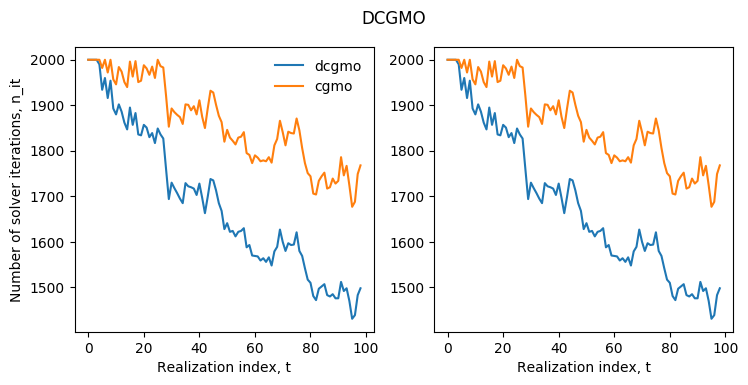
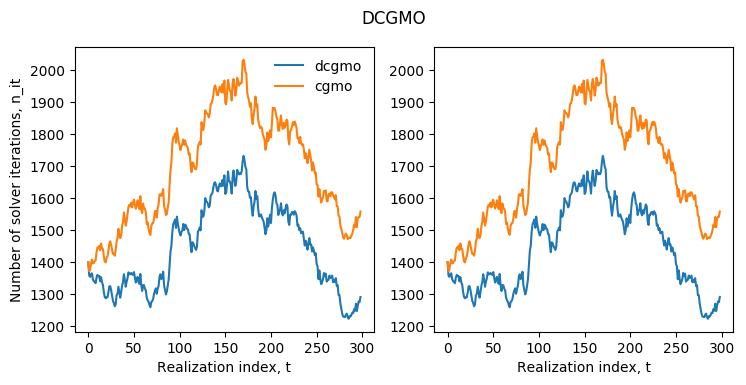
first-commiy

diff --git a/solvers.py b/solvers.py
@@ -13,7 +13,7 @@ class solver:
       Public methods:
         set_precond, solve.
   """
-  def __init__(self, n, solver_type, eps=1e-7, itmax=2000, W=None, ell=0):
+  def __init__(self, n, solver_type, eps=1e-7, itmax=4000, W=None, ell=0):
     self.n = n
     self.type = solver_type
     self.eps = eps
@@ -31,6 +31,34 @@ class solver:
         self.kdim = 0
       self.AW = None
       self.WtAW = None
+
+  def solve(self, x0, x_sol=None):
+    self.x0 = x0
+    self.x = None
+    if (type(x_sol) == type(None)):
+      Error = False
+    else:
+      self.x_sol = x_sol
+      self.error_Anorm = None
+      Error = True
+    if (self.type == "cg"):
+      self.__cg(Error=Error)
+    elif (self.type == "pcg"):
+      self.__pcg(Error=Error)
+    elif (self.type == "dcg"):
+      if (type(self.W) == type(None)):
+        self.__cg(Error=Error)
+      else:
+        r0 = self.b-self.A.dot(x0)
+        self.x0 += self.W.dot(self.__apply_invWtAW(self.W.T.dot(r0)))
+        self.__dcg(Error=Error)
+    elif (self.type == "dpcg"):
+      if (type(self.W) == type(None)):
+        self.__pcg(Error=Error)
+      else:
+        r0 = self.b-self.A.dot(x0)
+        self.x0 += self.W.dot(self.__apply_invWtAW(self.W.T.dot(r0)))
+        self.__dpcg(Error=Error)
 
   def set_precond(self, Mat=None, precond_id=0, nb=2, application_type=1):
     self.precond_id = precond_id
@@ -73,47 +101,29 @@ class solver:
       else:
         print('Warning: Invalid application_type.')
 
-  def solve(self, A, b, x0, ell=0, x_sol=None):
+  def presolve(self, A, b, ell=0):
     self.A = A
     self.b = b
     self.bnorm = np.linalg.norm(self.b)
-    self.x0 = x0
-    self.x = None
     self.iterated_res_norm = None
     self.it = 0
     self.ell = int(ell)
     if (self.ell > 0):
       self.P = np.zeros((self.n,self.ell))
-    if (type(x_sol) == type(None)):
-      Error = False
-    else:
-      self.x_sol = x_sol
-      self.error_Anorm = None
-      Error = True
-    if (self.type == "cg"):
-      self.__cg(Error=Error)
-    elif (self.type == "pcg"):
-      self.__pcg(Error=Error)
-    elif (self.type == "dcg"):
-      if (type(self.W) == type(None)):
-        self.__cg(Error=Error)
-      else:
+    if (self.type == "dcg"):
+      if (type(self.W) != type(None)):
         self.AW = self.A.dot(self.W)
         self.WtAW = self.W.T.dot(self.AW)
-        # HERE, compute factorization of WtAW
-        r0 = self.b-self.A.dot(x0)
-        # HERE, compute new initial iterate, orthogonal to deflation subspace
-        self.x0 += self.W.dot(scipy.linalg.solve(self.WtAW, self.W.T.dot(r0)))
-
-
-        self.__dcg(Error=Error)
+        self.__set_factorization_WtAW()
     elif (self.type == "dpcg"):
-      if (type(self.W) == type(None)):
-        self.__pcg(Error=Error)
-      else:
+      if (type(self.W) != type(None)):
         self.AW = self.A.dot(self.W)
         self.WtAW = self.W.T.dot(self.AW)
-        self.__dpcg(Error=Error)
+        self.__set_factorization_WtAW()
+
+  def __set_factorization_WtAW(self):
+    self.WtAW_chol = scipy.linalg.cho_factor(self.WtAW)
+    # Application: scipy.linalg.cho_solve(self.WtAW_chol, x)
 
   def __apply_invM(self, x):
     if (self.precond_id == 2):
@@ -133,10 +143,8 @@ class solver:
         return self.inv_M.dot(x)
 
   def __apply_invWtAW(self, x):
-    #
-    # Precompute a factorization in solve()
-    #
-    return scipy.linalg.solve(self.WtAW, x)
+    return scipy.linalg.cho_solve(self.WtAW_chol, x)
+    #return scipy.linalg.solve(self.WtAW, x)
 
   def __cg(self, Error=False):
     self.it = 0

diff --git a/example02_solver.py b/example02_solver.py
@@ -21,7 +21,8 @@ fig, ax = pl.subplots(2, 3, figsize=(13,8.))
 for i_smp in range(nsmp):
   mc.draw_realization()
   mc.do_assembly()
-  pcg.solve(A=mc.A, b=mc.b, x0=np.zeros(mc.n))
+  pcg.presolve(A=mc.A, b=mc.b)
+  pcg.solve(x0=np.zeros(mc.n))
   ax[0,0].plot(mc.get_kappa(), lw=.1)
   ax[0,1].plot(pcg.x, lw=.2)
   ax[0,2].semilogy(pcg.iterated_res_norm/pcg.bnorm, lw=.3)  
@@ -34,12 +35,12 @@ while (mcmc.cnt_accepted_proposals < nsmp):
   mcmc.draw_realization()
   mcmc.do_assembly()
   if (mcmc.proposal_accepted):
-    pcg.solve(A=mcmc.A, b=mcmc.b, x0=np.zeros(mcmc.n))
+    pcg.presolve(A=mcmc.A, b=mcmc.b)
+    pcg.solve(x0=np.zeros(mcmc.n))
     ax[1,0].plot(mcmc.get_kappa(), lw=.1)
     ax[1,1].plot(pcg.x, lw=.2)
     ax[1,2].semilogy(pcg.iterated_res_norm/pcg.bnorm, lw=.3)  
 ax[1,0].set_xlabel("x"); ax[1,1].set_xlabel("x"); ax[1,2].set_xlabel("Solver iteration, j")
 ax[1,0].set_ylabel("MCMC sampler")
-
 pl.show()
 #pl.savefig("example02_solver.png", bbox_inches='tight')

diff --git a/example04_recycler.py b/example04_recycler.py
@@ -5,11 +5,11 @@ import pylab as pl
 import numpy as np
 
 nEl = 1000
-nsmp = 100
+nsmp = 300
 sig2, L = .357, 0.05
 model = "Exp"
 
-mcmc = sampler(nEl=nEl, smp_type="mcmc", model=model, sig2=sig2, L=L, seed=123)
+mcmc = sampler(nEl=nEl, smp_type="mcmc", model=model, sig2=sig2, L=L)
 mcmc.compute_KL()
 
 mcmc.draw_realization()
@@ -34,7 +34,8 @@ while (mcmc.cnt_accepted_proposals < nsmp):
     dcgmo.solve()
     dcgmo_it += [dcg.it]
 
-    cg.solve(A=mcmc.A, b=mcmc.b, x0=np.zeros(mcmc.n))
+    cg.presolve(A=mcmc.A, b=mcmc.b)
+    cg.solve(x0=np.zeros(mcmc.n))
     cgmo_it += [cg.it]
 
     print("%d/%d" %(mcmc.cnt_accepted_proposals, nsmp))

diff --git a/recyclers.py b/recyclers.py
@@ -193,9 +193,10 @@ class recycler:
         elif (self.sampler.type == "mcmc") & (self.sampler.cnt_accepted_proposals < self.t_end_def):
           self.update_W()
     
-    self.solver.A = self.sampler.A
+    self.solver.presolve(A=self.sampler.A, b=self.sampler.b, ell=self.solver.ell)
 
-  def solve(self):
-    x0 = np.zeros(self.sampler.n)
-    self.solver.solve(self.sampler.A, self.sampler.b, x0, ell=self.solver.ell)
+  def solve(self, x0=None):
+    if (type(x0) == type(None)):
+      x0 = np.zeros(self.sampler.n)
+    self.solver.solve(x0=x0)
     # self.solver.ell was updated here

diff --git a/README.tex.md b/README.tex.md
@@ -20,9 +20,9 @@ List of files: _samplers.py_, _solvers.py_, _recyclers.py_, _post_recyclers.py_
 
 - _samplers.py_ : 
 
-  A `sampler` assembles sampled operators in a sequence $\{\mathbf{A}(\theta_t)\}_{t=1}^M$ for the stochastic system $\mathbf{A}(\theta)\mathbf{u}(\theta)=\mathbf{b}$ of a P0-FE discretization of the SDE $\partial_x[\kappa(x;\theta)\partial_xu(x;\theta)]=-f(x)$ for all $x\in(x_a, x_b)$ and $u(x_a)=0$. The stationary lognormal coefficient field $\kappa(x;\theta)$ is represented by a truncated Karhunen-Loève (KL) expansion later sampled either by Monte Carlo (MC) or by Markov chain Monte Carlo (MCMC).
-
   Signature : `sampler`(`nEL`=`500`,`smp_type`=`"mc"`, `model`=`"SExp"`, `sig2`=`1`, `mu`=`0`, `L`=`0.1`, `vsig2`=`None`,`delta2`=`1e-3`, `seed`=`123456789`, `verb`=`1`, `xa`=`0`, `xb`=`1`, `u_xb`=`None`, `du_xb`=`0`)
+
+  Assembles sampled operators in a sequence $\{\mathbf{A}(\theta_t)\}_{t=1}^M$ for the stochastic system $\mathbf{A}(\theta)\mathbf{u}(\theta)=\mathbf{b}$ of a P0-FE discretization of the SDE $\partial_x[\kappa(x;\theta)\partial_xu(x;\theta)]=-f(x)$ for all $x\in(x_a, x_b)$ and $u(x_a)=0$. The stationary lognormal coefficient field $\kappa(x;\theta)$ is represented by a truncated Karhunen-Loève (KL) expansion later sampled either by Monte Carlo (MC) or by Markov chain Monte Carlo (MCMC).
 
   - `nEl` (`int`, `nEl`>`0`) : Number of elements.
 
@@ -62,9 +62,9 @@ List of files: _samplers.py_, _solvers.py_, _recyclers.py_, _post_recyclers.py_
 
 - _solvers.py_ :
 
-  A `solver` solves a linear system iteratively and potentially recycles some information about a Krylov subspace.
-
   Signature : `solver`( `n`, `solver_type`, `eps`=`1e-7`, `itmax`=`2000`, `W`=`None`, `ell`=`0`)
+
+  Solves a linear system iteratively and potentially recycles some information about a Krylov subspace.
 
   - `n` (`int`, `n`>`1`) : System size.
   - `solver_type` (`string`, {`"cg"`, `"pcg"`, `"dcg"`, `"dpcg"`}) : Type of iterative solver.
@@ -75,11 +75,11 @@ List of files: _samplers.py_, _solvers.py_, _recyclers.py_, _post_recyclers.py_
   - `eps` (`float`, `0`<`eps`<`1`) : Tolerance used for stopping criterion. Iterations are stopped if the norm `iterated_res_norm` of the iterated residual `r` is such that `iterated_res_norm`<`eps`*`bnorm` where `bnorm` denotes $\|b\|$.
   - `itmax` (`int`, `itmax`>`1`) : Maximum number of iterations.
   - `W` (`ndarray`, `W.shape`=`(n,k)`, `k`<`n`) : Basis of deflation subspace used for `"dcg"` and `"dpcg"`.
-  - `ell` (`int`, `ell`>`0`) : Attempted dimension of the recycled Krylov subspace.
+  - `ell` (`int`, `ell`>`0`) : Attempted dimension of the Krylov subspace to recycle.
 
   Public parameters : *, *, *.
 
-  Public methods : `set_precond`, `solve`.
+  Public methods : `set_precond`, `presolve`, `solve`.
 
   Signature : `set_precond`(`self`, `Mat`, `precond_id`, `nb`=`2`, `application_type`=`1`)
 
@@ -109,27 +109,30 @@ List of files: _samplers.py_, _solvers.py_, _recyclers.py_, _post_recyclers.py_
 
     `2` : The array of the inverse preconditioner is explicitly computed when `set_precond` is called. The computed inverse is later applied as a matrix-vector product at each application.
 
-  Signature : `solve`(`self`, `A`, `b`, `x0`, `ell`=`0,` `x_sol`=`None`)
+  Signature : `presolve`(`self`, `A`, `b`, `ell`=`0`)
+
+  If `self.type`={`"dcg"`, `"dpcg"`} : Computes $AW$ and computes/factorizes $W^TAW$.
 
   - `A` ({`ndarray`, `sparse`}, `A.shape`=`(n, n)`) : Sampled operator of linear system to solve.
   - `b` (`ndarray`, `b.shape`=`(n,)`) : Right hand side.
+  - `ell` (`int`, `ell`>=`0`) : Dimension of Krylov subspace to recycle.
+
+  Signature : `solve`(`self`, `x0`, `x_sol`=`None`)
+
   - `x0` (`ndarray`, `x0.shape`=`(n,)`) : Initial iterate.
-  - `ell` (`int`, `ell`>=`0`) : Dimension of recycled Krylov subspace.
   - `x_sol` (`ndarray`, `x_sol.shape`=`(n,)`) : Exact solution used to compute A-norm errors.
 
 - _recyclers.py_ : 
 
-  A `recycler` interfaces a `sampler` with a `solver` in order to solve a sequence of linear systems $\mathbf{A}(\theta_t)\mathbf{u}(\theta_t)=\mathbf{b}$  associated with a sequence of sampled operators $\{\mathbf{A}(\theta_t)\}_{t=1}^M$. The recyclers implemented make use of preconditioners and/or deflation of Krylov subspaces. 
+  Signature : `recycler`(`sampler`, `solver`, `recycler_type`, `dt`=`0`, `t_end_def`=`0`, `kl`=`5`, `kl_strategy`=`0`, `dp_seq`=`"pd"`, `which_op`=`"previous"`, `approx`=`"HR"`)
+
+  Interfaces a `sampler` with a `solver` in order to solve a sequence of linear systems $\mathbf{A}(\theta_t)\mathbf{u}(\theta_t)=\mathbf{b}$  associated with a sequence of sampled operators $\{\mathbf{A}(\theta_t)\}_{t=1}^M$. The recyclers implemented make use of preconditioners and/or deflation of Krylov subspaces. 
 
   The available sequences of preconditioners $\{\mathbf{M}(\theta_t)\}_{t=1}^M$ are either: (1) constant, i.e.  $\mathbf{M}(\theta_t)=\mathbf{M}(\hat{\mathbf{A}})$ for all $t$, where $\hat{\mathbf{A}}$ denotes the median operator, or (2) realization-dependent and redefined periodically throughout the sampled sequence, i.e. $\mathbf{M}(\theta_t):=\mathbf{M}(\theta_{t_j})$ for all $t_j\leq t<t_{j+1}$ with $t_j:=1+j\Delta t$ and $0\leq j<M/\Delta t$ for some period $\Delta t$.  All the preconditioners available are SPD so that for each $\mathbf{M}(\theta_t)$, there exists $\mathbf{L}(\theta_t)$ such that $\mathbf{M}(\theta_t)=\mathbf{L}(\theta_{t})\mathbf{L}(\theta_{t})^{T}$.
 
   Deflation is performed either: (1) throughout the sequence, or (2) for all $t\leq t_{stop}$ for some $t_{stop}\leq M$. The Krylov subspace $\mathcal{K}^{(t)}$ associated with the iterative resolution of $\mathbf{A}(\theta_t)\mathbf{u}(\theta_t)=\mathbf{b}$  is deflated by a subspace $\mathcal{W}(\theta_t):=\mathcal{R}(\mathbf{W}(\theta_t))$ spanned by $\mathbf{W}(\theta_t):=[\mathbf{w}_1(\theta_t),\dots,\mathbf{w}_k(\theta_t)]$. $\{\mathbf{w}_k(\theta_t)\}_{j=1}^k$ are approximate eigenvectors of either $\mathbf{A}(\theta_{t-1})$, $\mathbf{A}(\theta_t)$, $\mathbf{M}^{-1}(\theta_{t-1})\mathbf{A}(\theta_{t-1})$ or $\mathbf{M}^{-1}(\theta_{t})\mathbf{A}(\theta_{t})$ depending on the deflation strategy adopted and whether a preconditioner is used or not.
 
   The approximated eigenvectors $\mathbf{w}_1(\theta_t),\dots,\mathbf{w}_k(\theta_t)$ are obtained by (1) Harmonic Ritz, and/or (2) Rayleigh Ritz analysis over an approximation subspace $\mathcal{R}([\mathbf{W}(\theta_{t-1}),\mathbf{P}(\theta_{t-1})])$ spanned by a (recycled) basis $\mathbf{P}(\theta_{t-1})\in\mathbb{R}^{n\times\ell}$ of the Krylov subspace $\mathcal{K}^{(t-1)}_{\ell}\subseteq\mathcal{K}^{(t-1)}$, and the basis $\mathbf{W}(\theta_{t-1})\in\mathbb{R}^{n\times k}$ of a deflation subspace $\mathcal{W}^{(t-1)}\perp\mathcal{K}^{(t-1)}$. The dimensions $k$ and $\ell$ are respectively denoted by `kdim` and `ell` throughout the code.
-
-  A `recycler` recycles.
-
-  Signature : `recycler`(`sampler`, `solver`, `recycler_type`, `dt`=`0`, `t_end_def`=`0`, `kl`=`5`, `kl_strategy`=`0`, `dp_seq`=`"pd"`, `which_op`=`"previous"`, `approx`=`"HR"`)
 
   - `sampler` (`sampler`) 
   - `solver` (`solver`) 
@@ -155,7 +158,23 @@ List of files: _samplers.py_, _solvers.py_, _recyclers.py_, _post_recyclers.py_
 
   Public parameters : *, *, *.
 
-  Public methods : `do_assembly`, `prepare`, `solve`.
+  Public methods :
+
+  Signature `do_assembly`(`self`)
+
+  Assembles current operator $A$ from sampled realization.
+
+  Signature `prepare `(`self`)
+
+  If `self.type`=`"pcgmo"` : Updates preconditioner and computes new factorization.
+
+  If `self.type`={`"dcgmo"`, `"dpcgmo"`} : Updates deflation subspace, computes $AW$, and computes/factorizes $W^TAW$.
+
+  Signature : `solve`(`self`, `x0`)
+
+  Solves the current system in the the sequence.
+
+  - `x0` (`ndarray`, `x0.shape`=`(n,)`) : Initial iterate, later projected onto the orthogonal complement of $\mathcal{R}(W)$ if `self.type`={`"dcgmo"`, `"dpcgmo"`}.
 
 - _post-recyclers.py_ :
 
@@ -241,7 +260,8 @@ fig, ax = pl.subplots(2, 3, figsize=(13,8.))
 for i_smp in range(nsmp):
   mc.draw_realization()
   mc.do_assembly()
-  pcg.solve(A=mc.A, b=mc.b, x0=np.zeros(mc.n))
+  pcg.presolve(A=mc.A, b=mc.b)
+  pcg.solve(x0=np.zeros(mc.n))
   ax[0,0].plot(mc.get_kappa(), lw=.1)
   ax[0,1].plot(pcg.x, lw=.2)
   ax[0,2].semilogy(pcg.iterated_res_norm/pcg.bnorm, lw=.3)  
@@ -254,13 +274,13 @@ while (mcmc.cnt_accepted_proposals < nsmp):
   mcmc.draw_realization()
   mcmc.do_assembly()
   if (mcmc.proposal_accepted):
-    pcg.solve(A=mcmc.A, b=mcmc.b, x0=np.zeros(mcmc.n))
+    pcg.presolve(A=mcmc.A, b=mcmc.b)
+    pcg.solve(x0=np.zeros(mcmc.n))
     ax[1,0].plot(mcmc.get_kappa(), lw=.1)
     ax[1,1].plot(pcg.x, lw=.2)
     ax[1,2].semilogy(pcg.iterated_res_norm/pcg.bnorm, lw=.3)  
 ax[1,0].set_xlabel("x"); ax[1,1].set_xlabel("x"); ax[1,2].set_xlabel("Solver iteration, j")
 ax[1,0].set_ylabel("MCMC sampler")
-
 pl.show()
 ```
 
@@ -359,7 +379,7 @@ import pylab as pl
 import numpy as np
 
 nEl = 1000
-nsmp = 100
+nsmp = 300
 sig2, L = .357, 0.05
 model = "Exp"
 
@@ -370,9 +390,13 @@ mcmc.draw_realization()
 mcmc.do_assembly()
 
 kl = 20
+
+cg = solver(n=mcmc.n, solver_type="cg")
 dcg = solver(n=mcmc.n, solver_type="dcg")
+
 dcgmo = recycler(sampler=mcmc, solver=dcg, recycler_type="dcgmo", kl=kl)
 
+cgmo_it = []
 dcgmo_it, dcgmo_kdim, dcgmo_ell = [], [], []
 while (mcmc.cnt_accepted_proposals < nsmp):
   mcmc.draw_realization()
@@ -383,14 +407,22 @@ while (mcmc.cnt_accepted_proposals < nsmp):
     dcgmo_ell += [dcgmo.solver.ell]
     dcgmo.solve()
     dcgmo_it += [dcg.it]
+
+    cg.presolve(A=mcmc.A, b=mcmc.b)
+    cg.solve(x0=np.zeros(mcmc.n))
+    cgmo_it += [cg.it]
+
     print("%d/%d" %(mcmc.cnt_accepted_proposals, nsmp))
-    
+
 fig, ax = pl.subplots(1, 2, figsize=(8.5,3.7))
 ax[0].plot(dcgmo_it, label="dcgmo")
+ax[0].plot(cgmo_it, label="cgmo")
 ax[1].plot(dcgmo_it, label="dcgmo")
+ax[1].plot(cgmo_it, label="cgmo")
 ax[0].set_xlabel("Realization index, t"); ax[1].set_xlabel("Realization index, t")
 ax[0].set_ylabel("Number of solver iterations, n_it")
 fig.suptitle("DCGMO")
+ax[0].legend(frameon=False)
 pl.show()
 ```
 
